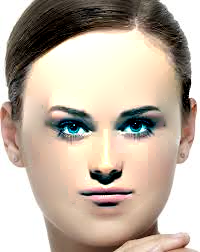
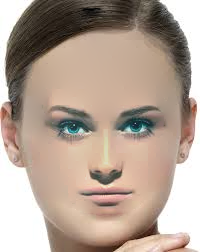
Finished Cell Shading

diff --git a/src/main.cpp b/src/main.cpp
@@ -1029,10 +1029,10 @@ void calculateHessianAndB(Eigen::SparseMatrix<double>& A, Eigen::VectorXd& b, co
         double three = 2.0 * (imageA.smartAccess(col, row, ch) - imageA.smartAccess(col + 1, row, ch));
         double four = 2.0 * (imageA.smartAccess(col, row, ch) - imageA.smartAccess(col - 1, row, ch));
 
-        if (fabs(one) > edgeTh) b(i) -= 2.0 * one;
-        if (fabs(two) > edgeTh) b(i) -= 2.0 * two;
-        if (fabs(three) > edgeTh) b(i) -= 2.0 * three;
-        if (fabs(four) > edgeTh) b(i) -= 2.0 * four;
+        if (fabs(one) > edgeTh) b(i) -= one;
+        if (fabs(two) > edgeTh) b(i) -= two;
+        if (fabs(three) > edgeTh) b(i) -= three;
+        if (fabs(four) > edgeTh) b(i) -= four;
 
         // if (edge.smartAccess(col, row, ch) > 0.1) {
         //     b(i) -= 2.0 * (imageA.smartAccess(col, row, ch) - imageA.smartAccess(col, row - 1, ch));
@@ -2245,29 +2245,29 @@ void toonShaderDemo() {
     // Image imageA(DATA_DIR "/input/girlTwo.jpg");
     Image omega(DATA_DIR "/input/fullFaceWeights.png");
 
-    Image edge = edgeDetection(imageA, 0.09);
+    // Image edge = edgeDetection(imageA, 0.09);
 
     Eigen::Vector2i offset;
     offset[0] = 0;
     offset[1] = 0;
 
-    edgeDetection(imageA, 0.03).write(DATA_DIR "/output/faceSwapED-0_03.png");
-    edgeDetection(imageA, 0.05).write(DATA_DIR "/output/faceSwapED-0_05.png");
-    edgeDetection(imageA, 0.1).write(DATA_DIR "/output/faceSwapED-0_1.png");
-    edgeDetection(imageA, 0.2).write(DATA_DIR "/output/faceSwapED-0_2.png");
-    edgeDetection(imageA, 0.3).write(DATA_DIR "/output/faceSwapED-0_3.png");
-    edgeDetection(imageA, 0.4).write(DATA_DIR "/output/faceSwapED-0_4.png");
-    edgeDetection(imageA, 0.5).write(DATA_DIR "/output/faceSwapED-0_5.png");
-    edgeDetection(imageA, 0.6).write(DATA_DIR "/output/faceSwapED-0_6.png");
-    edgeDetection(imageA, 0.7).write(DATA_DIR "/output/faceSwapED-0_7.png");
-    edgeDetection(imageA, 0.8).write(DATA_DIR "/output/faceSwapED-0_8.png");
-    edgeDetection(imageA, 0.9).write(DATA_DIR "/output/faceSwapED-0_9.png");
+    // edgeDetection(imageA, 0.03).write(DATA_DIR "/output/faceSwapED-0_03.png");
+    // edgeDetection(imageA, 0.05).write(DATA_DIR "/output/faceSwapED-0_05.png");
+    // edgeDetection(imageA, 0.1).write(DATA_DIR "/output/faceSwapED-0_1.png");
+    // edgeDetection(imageA, 0.2).write(DATA_DIR "/output/faceSwapED-0_2.png");
+    // edgeDetection(imageA, 0.3).write(DATA_DIR "/output/faceSwapED-0_3.png");
+    // edgeDetection(imageA, 0.4).write(DATA_DIR "/output/faceSwapED-0_4.png");
+    // edgeDetection(imageA, 0.5).write(DATA_DIR "/output/faceSwapED-0_5.png");
+    // edgeDetection(imageA, 0.6).write(DATA_DIR "/output/faceSwapED-0_6.png");
+    // edgeDetection(imageA, 0.7).write(DATA_DIR "/output/faceSwapED-0_7.png");
+    // edgeDetection(imageA, 0.8).write(DATA_DIR "/output/faceSwapED-0_8.png");
+    // edgeDetection(imageA, 0.9).write(DATA_DIR "/output/faceSwapED-0_9.png");
 
-    Image results = seamlessPoissonCloningToon(imageA, imageB, omega, edge, offset);
-    results.write(DATA_DIR "/output/faceWHOA.png");
-    results.setZero();
+    // Image results = seamlessPoissonCloningToon(imageA, imageB, omega, edge, offset);
+    // results.write(DATA_DIR "/output/faceWHOA.png");
+    // results.setZero();
 
-    results = seamlessPoissonCloningToon(imageA, imageB, omega, 0.1, offset);
+    Image results = seamlessPoissonCloningToon(imageA, imageB, omega, 0.1, offset);
     results.write(DATA_DIR "/output/faceSwapToonResultsValFaceOnly_1.png");
     results.setZero();
 
@@ -2344,6 +2344,84 @@ void quickSparseMatrixVerify() {
     cout << endl;
 }
 
+void cellShadeTest() {
+    Image imageB(DATA_DIR "/output/faceSwapHealedRight.png");
+    Image imageB2(DATA_DIR "/output/faceSwapHealedRight.png");
+    Image imageB3(DATA_DIR "/output/faceSwapHealedRight.png");
+    Image imageB4(DATA_DIR "/output/faceSwapHealedRight.png");
+    Image imageB5(DATA_DIR "/output/faceSwapHealedRight.png");
+    imageB.cellShade(1.0 / 2.0);
+    imageB2.cellShade(1.0 / 5.0);
+    imageB3.cellShade(1.0 / 10.0);
+    imageB4.cellShade(1.0 / 15.0);
+    imageB5.cellShade(1.0 / 20.0);
+
+    imageB.write(DATA_DIR "/output/cellShadeExample_2.png");
+    imageB2.write(DATA_DIR "/output/cellShadeExample_5.png");
+    imageB3.write(DATA_DIR "/output/cellShadeExample_10.png");
+    imageB4.write(DATA_DIR "/output/cellShadeExample_15.png");
+    imageB5.write(DATA_DIR "/output/cellShadeExample_20.png");
+}
+
+void cellShadeDemo() {
+    Image imageB(DATA_DIR "/input/girlOne.jpg");
+    Image imageA(DATA_DIR "/input/girlTwo.jpg");
+    Image omega(DATA_DIR "/input/girlTwoWeights2.png");
+    Eigen::Vector2i offset;
+    offset[0] = 4;
+    offset[1] = 25;
+
+    imageA.cellShade(1.0 / 12.0);
+    // imageB.cellShade(1.0 / 12.0);
+
+    Image swap = seamlessPoissonCloning(imageA, imageB, omega, offset);
+    swap.write(DATA_DIR "/output/cellShadeDemo.png");
+}
+
+void cellShadeDemo2() {
+    Image imageB(DATA_DIR "/output/faceSwapHealedRight.png");
+    Image imageA(DATA_DIR "/output/faceSwapHealedRight.png");
+    // Image imageB(DATA_DIR "/input/girlTwo.jpg");
+    // Image imageA(DATA_DIR "/input/girlTwo.jpg");
+    Image omega(DATA_DIR "/input/fullFaceWeights.png");
+
+    // Image edge = edgeDetection(imageA, 0.09);
+
+    Eigen::Vector2i offset;
+    offset[0] = 0;
+    offset[1] = 0;
+
+    imageA.cellShade(1.0 / 5.0);
+
+    // edgeDetection(imageA, 0.03).write(DATA_DIR "/output/faceSwapED-0_03.png");
+    // edgeDetection(imageA, 0.05).write(DATA_DIR "/output/faceSwapED-0_05.png");
+    // edgeDetection(imageA, 0.1).write(DATA_DIR "/output/faceSwapED-0_1.png");
+    // edgeDetection(imageA, 0.2).write(DATA_DIR "/output/faceSwapED-0_2.png");
+    // edgeDetection(imageA, 0.3).write(DATA_DIR "/output/faceSwapED-0_3.png");
+    // edgeDetection(imageA, 0.4).write(DATA_DIR "/output/faceSwapED-0_4.png");
+    // edgeDetection(imageA, 0.5).write(DATA_DIR "/output/faceSwapED-0_5.png");
+    // edgeDetection(imageA, 0.6).write(DATA_DIR "/output/faceSwapED-0_6.png");
+    // edgeDetection(imageA, 0.7).write(DATA_DIR "/output/faceSwapED-0_7.png");
+    // edgeDetection(imageA, 0.8).write(DATA_DIR "/output/faceSwapED-0_8.png");
+    // edgeDetection(imageA, 0.9).write(DATA_DIR "/output/faceSwapED-0_9.png");
+
+    // Image results = seamlessPoissonCloningToon(imageA, imageB, omega, edge, offset);
+    // results.write(DATA_DIR "/output/faceWHOA.png");
+    // results.setZero();
+
+    Image results = seamlessPoissonCloningToon(imageA, imageB, omega, 0.1, offset);
+    results.write(DATA_DIR "/output/cellGradTest_1_5.png");
+    results.setZero();
+
+    results = seamlessPoissonCloningToon(imageA, imageB, omega, 0.05, offset);
+    results.write(DATA_DIR "/output/cellGradTest_05_5.png");
+    results.setZero();
+
+    results = seamlessPoissonCloningToon(imageA, imageB, omega, 0.15, offset);
+    results.write(DATA_DIR "/output/cellGradTest_15_5.png");
+    results.setZero();
+}
+
 int main(int argc, char* argv[]) {
     // quickSparseMatrixVerify();
     //
@@ -2375,8 +2453,12 @@ int main(int argc, char* argv[]) {
     // sparseFoxDemo();
     // sparseFoxLogDemo();
 
-    sparseFaceSwapDemo();
-    toonShaderDemo();
+    // sparseFaceSwapDemo();
+    // toonShaderDemo();
+
+    // cellShadeTest();
+    cellShadeDemo();
+    cellShadeDemo2();
 
     return 0;
 }

diff --git a/src/image.cpp b/src/image.cpp
@@ -121,6 +121,18 @@ void Image::printGreen() {
     cout << green << endl;
 }
 
+void Image::cellShade(double threshold) {
+	for (int i = 0; i < height; i++) {
+        for (int j = 0; j < width; j++) {
+			for (int c = 0; c < 3; c++) {
+				double value = smartAccess(j, i, c);
+				int step = int(value / threshold);
+				set(j, i, c, (double)step * threshold);
+			}
+        }
+    }
+}
+
 void Image::toLog() {
     double minf = minNonZero();
 

diff --git a/include/poly/image.h b/include/poly/image.h
@@ -20,6 +20,7 @@ public:
     void resize(int cols, int rows, int ch);
     void setZero();
 
+    void cellShade(double threshold);
     void toLog();
     void toLin();
     double minNonZero();
